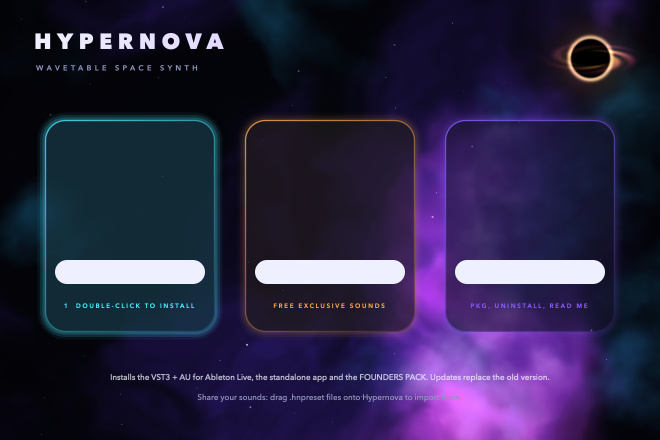
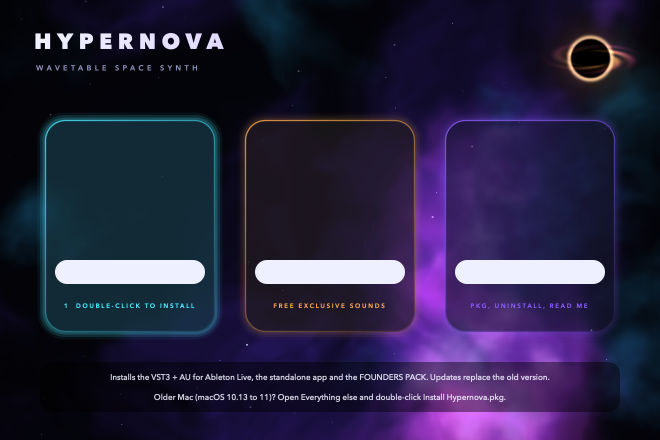
Hypernova 0.4.1: support macOS 10.13+ and faster plug-in open
- CMAKE_OSX_DEPLOYMENT_TARGET was set after project(), so builds silently targeted the
  SDK's macOS (26) and older Macs refused to load the plug-in. Now 10.13 (arm64: 11.0).
- Installer app targets macOS 12 (WindowGroup, pre-13 APIs); older systems use the pkg,
  which now allows 10.13. DMG art and READ ME explain the fallback.
- Wavetable build reuses one FFT plan per mip level: 880 ms to 125 ms, identical data.

Changed region(s): [[0.2424, 0.7977, 0.9394, 0.9455]]

diff --git a/installer/app/main.swift b/installer/app/main.swift
@@ -66,7 +66,7 @@ struct Part: Identifiable {
         "Library/Audio/Plug-Ins/VST3/Hypernova.vst3", "Library/Audio/Plug-Ins/Components/Hypernova.component",
         "Library/Audio/Plug-Ins/VST3/Arrow Bass.vst3", "Library/Audio/Plug-Ins/Components/Arrow Bass.component",
     ]
-    nonisolated static var soundsFolder: URL { FileManager.default.homeDirectoryForCurrentUser.appending(path: "Library/Application Support/Arrow/Hypernova") }
+    nonisolated static var soundsFolder: URL { FileManager.default.homeDirectoryForCurrentUser.appendingPathComponent("Library/Application Support/Arrow/Hypernova") }
 
     var installedVersion: String? {
         for path in Self.systemItems.prefix(3) {
@@ -77,7 +77,7 @@ struct Part: Identifiable {
 
     var somethingInstalled: Bool {
         let fm = FileManager.default, home = fm.homeDirectoryForCurrentUser
-        return Self.systemItems.contains { fm.fileExists(atPath: $0) } || Self.userItems.contains { fm.fileExists(atPath: home.appending(path: $0).path) }
+        return Self.systemItems.contains { fm.fileExists(atPath: $0) } || Self.userItems.contains { fm.fileExists(atPath: home.appendingPathComponent($0).path) }
     }
 
     var hasArrowBass: Bool {
@@ -144,7 +144,7 @@ struct Part: Identifiable {
         guard let pkg = Bundle.main.url(forResource: "Hypernova", withExtension: "pkg") else {
             return .failure(.init(message: "The installer is missing its package. Download the DMG again.", cancelled: false))
         }
-        let xml = FileManager.default.temporaryDirectory.appending(path: "hypernova-choices.plist")
+        let xml = FileManager.default.temporaryDirectory.appendingPathComponent("hypernova-choices.plist")
         let entries: [[String: Any]] = choices.map { ["choiceIdentifier": $0.0, "choiceAttribute": "selected", "attributeSetting": $0.1 ? 1 : 0] }
         do {
             let data = try PropertyListSerialization.data(fromPropertyList: entries, format: .xml, options: 0)
@@ -160,7 +160,7 @@ struct Part: Identifiable {
     // Per-user copies (old dev builds, Arrow Bass) would show up twice next to the system-wide install.
     private func removeUserCopies() {
         let fm = FileManager.default, home = fm.homeDirectoryForCurrentUser
-        for rel in Self.userItems { try? fm.removeItem(at: home.appending(path: rel)) }
+        for rel in Self.userItems { try? fm.removeItem(at: home.appendingPathComponent(rel)) }
     }
 
     // MARK: Uninstall
@@ -192,11 +192,11 @@ struct Part: Identifiable {
     private func cycleStatus(_ lines: [String], while phase: Phase) {
         Task { @MainActor in
             var i = 0
-            try? await Task.sleep(for: .seconds(2.5))
+            try? await Task.sleep(nanoseconds: 2_500_000_000)
             while self.phase == phase {
                 self.status = lines[i % lines.count]
                 i += 1
-                try? await Task.sleep(for: .seconds(1.4))
+                try? await Task.sleep(nanoseconds: 1_400_000_000)
             }
         }
     }
@@ -215,6 +215,7 @@ struct Part: Identifiable {
     init() {
         let args = CommandLine.arguments
         guard let i = args.firstIndex(of: "--snapshot"), i + 1 < args.count else { return }
+        guard #available(macOS 13.0, *) else { exit(1) } // snapshots use ImageRenderer; the installer itself runs on macOS 12
         let dir = URL(fileURLWithPath: args[i + 1])
         let screens: [(String, Phase)] = [("welcome", .welcome), ("working", .working), ("done", .done), ("failed", .failed("Sample error")),
                                           ("uninstall", .uninstallAsk), ("uninstalled", .uninstalled)]
@@ -227,14 +228,16 @@ struct Part: Identifiable {
             renderer.scale = 2
             if let img = renderer.nsImage, let tiff = img.tiffRepresentation, let rep = NSBitmapImageRep(data: tiff),
                let png = rep.representation(using: .png, properties: [:]) {
-                try? png.write(to: dir.appending(path: "installer-\(name).png"))
+                try? png.write(to: dir.appendingPathComponent("installer-\(name).png"))
             }
         }
         exit(0)
     }
 
     var body: some Scene {
-        Window(installer.uninstallMode ? "Uninstall Hypernova" : "Install Hypernova", id: "main") {
+        // WindowGroup rather than Window (macOS 13+) so the installer opens on macOS 12 too; File > New is removed
+        // and the delegate makes the window fixed-size.
+        WindowGroup(installer.uninstallMode ? "Uninstall Hypernova" : "Install Hypernova") {
             InstallerView()
                 .environmentObject(installer)
                 .frame(width: 720, height: 480)
@@ -242,7 +245,7 @@ struct Part: Identifiable {
                 .preferredColorScheme(.dark)
         }
         .windowStyle(.hiddenTitleBar)
-        .windowResizability(.contentSize)
+        .commands { CommandGroup(replacing: .newItem) {} }
     }
 }
 
@@ -250,6 +253,12 @@ final class AppDelegate: NSObject, NSApplicationDelegate {
     func applicationShouldTerminateAfterLastWindowClosed(_ sender: NSApplication) -> Bool { true }
     func applicationDidFinishLaunching(_ notification: Notification) {
         NSApp.activate(ignoringOtherApps: true)
-        NSApp.windows.first?.isMovableByWindowBackground = true
+        DispatchQueue.main.async {
+            for w in NSApp.windows {
+                w.isMovableByWindowBackground = true
+                w.styleMask.remove(.resizable)
+                w.standardWindowButton(.zoomButton)?.isEnabled = false
+            }
+        }
     }
 }

diff --git a/Source/DSP/Wavetables.h b/Source/DSP/Wavetables.h
@@ -240,11 +240,27 @@ private:
         };
         blurbs[TAir] = "dense breathy partials, dark to shimmering";
 
+        // One FFT plan (and its scale) per mip level, shared by every frame of every table: making plans per
+        // frame was most of the plug-in's open time, which matters on older Intel Macs.
+        Plans plans;
+        for (int l = 0; l < wtLevels; ++l)
+        {
+            const int size = wtLevelSize (l);
+            plans.inv.push_back (std::make_unique<juce::dsp::FFT> ((int) std::round (std::log2 ((double) size))));
+            plans.scale.push_back (inverseScale (*plans.inv.back(), size));
+        }
         for (int i = 0; i < NumTables; ++i)
-            tables.push_back (build (n[i], blurbs[(size_t) i], gens[(size_t) i]));
+            tables.push_back (build (n[i], blurbs[(size_t) i], gens[(size_t) i], plans));
     }
 
-    static Wavetable build (const juce::String& name, const juce::String& blurb, const Gen& gen)
+    struct Plans
+    {
+        juce::dsp::FFT fwd { 11 }; // 2048
+        std::vector<std::unique_ptr<juce::dsp::FFT>> inv;
+        std::vector<float> scale;
+    };
+
+    static Wavetable build (const juce::String& name, const juce::String& blurb, const Gen& gen, Plans& plans)
     {
         Wavetable wt;
         wt.name = name;
@@ -259,19 +275,17 @@ private:
         wt.data.assign (wt.frameStride * wtFrames, 0.0f);
 
         using C = std::complex<float>;
-        const int baseOrder = 11; // 2048
-        juce::dsp::FFT fwd (baseOrder);
-        std::vector<C> in ((size_t) wtBaseSize), spec ((size_t) wtBaseSize);
+        std::vector<C> in ((size_t) wtBaseSize), spec ((size_t) wtBaseSize), s ((size_t) wtBaseSize), out ((size_t) wtBaseSize);
+        std::vector<C> harm ((size_t) wtMaxHarmonics + 1);
 
         for (int f = 0; f < wtFrames; ++f)
         {
             const double t = (double) f / (wtFrames - 1);
             for (int i = 0; i < wtBaseSize; ++i)
                 in[(size_t) i] = C ((float) gen (t, (double) i / wtBaseSize), 0.0f);
-            fwd.perform (in.data(), spec.data(), false);
+            plans.fwd.perform (in.data(), spec.data(), false);
 
             // Harmonic k as complex amplitude: x(n) = Re(sum c_k e^{i 2pi k n / N}) with c_k = 2 X_k / N.
-            std::vector<C> harm ((size_t) wtMaxHarmonics + 1);
             for (int k = 1; k <= wtMaxHarmonics; ++k)
                 harm[(size_t) k] = spec[(size_t) k] * (2.0f / (float) wtBaseSize);
 
@@ -281,14 +295,12 @@ private:
                 const int size = wtLevelSize (l), maxH = wtLevelHarmonics (l);
                 float* dst = wt.data.data() + (size_t) f * wt.frameStride + wt.levelOffset[(size_t) l];
                 // Direct resynthesis via inverse FFT at this level's size.
-                const int order = (int) std::round (std::log2 ((double) size));
-                juce::dsp::FFT inv (order);
-                std::vector<C> s ((size_t) size), out ((size_t) size);
+                std::fill (s.begin(), s.begin() + size, C());
                 for (int k = 1; k <= maxH && k < size / 2; ++k)
                     s[(size_t) k] = harm[(size_t) k];
-                inv.perform (s.data(), out.data(), true);
-                // JUCE's inverse may or may not scale by 1/N; recover the scale from a known unit harmonic.
-                const float scale = inverseScale (inv, size);
+                plans.inv[(size_t) l]->perform (s.data(), out.data(), true);
+                // JUCE's inverse may or may not scale by 1/N; the scale was recovered from a known unit harmonic.
+                const float scale = plans.scale[(size_t) l];
                 for (int i = 0; i < size; ++i)
                     dst[i] = out[(size_t) i].real() * scale;
 

diff --git a/Tests/MakeInstallerArt.cpp b/Tests/MakeInstallerArt.cpp
@@ -148,12 +148,14 @@ namespace
             g.setFont (font (8.5f, true).withExtraKerningFactor (0.2f));
             g.drawText (p.caption, juce::Rectangle<float> (170, 16).withCentre ({ p.x, 306 }), juce::Justification::centred, false);
         }
-        g.setColour (Colours::text.withAlpha (0.75f));
+        g.setColour (juce::Colours::black.withAlpha (0.45f)); // keeps the notes readable over the bright nebula
+        g.fillRoundedRectangle (juce::Rectangle<float> (40, 362, 580, 50), 12.0f);
+        g.setColour (Colours::text.withAlpha (0.85f));
         g.setFont (font (11.0f));
         g.drawText ("Installs the VST3 + AU for Ableton Live, the standalone app and the FOUNDERS PACK. Updates replace the old version.",
                     juce::Rectangle<float> (24, 368, 612, 18), juce::Justification::centred, false);
-        g.setColour (Colours::textDim);
-        g.drawText ("Share your sounds: drag .hnpreset files onto Hypernova to import them.",
+        g.setColour (Colours::text.withAlpha (0.85f));
+        g.drawText ("Older Mac (macOS 10.13 to 11)? Open Everything else and double-click Install Hypernova.pkg.",
                     juce::Rectangle<float> (24, 388, 612, 18), juce::Justification::centred, false);
         return img;
     }

diff --git a/Tests/SmokeTest.cpp b/Tests/SmokeTest.cpp
@@ -186,6 +186,21 @@ int main (int argc, char** argv)
         return 0;
     }
 
+    // SmokeTest --opentime: how long building the wavetables and one processor takes (plug-in open time).
+    if (argc == 2 && juce::String (argv[1]) == "--opentime")
+    {
+        const auto t0 = juce::Time::getMillisecondCounterHiRes();
+        ab::WavetableBank::get();
+        const auto t1 = juce::Time::getMillisecondCounterHiRes();
+        { HypernovaAudioProcessor p; }
+        const auto t2 = juce::Time::getMillisecondCounterHiRes();
+        double sum = 0;
+        for (int i = 0; i < ab::NumTables; ++i)
+            for (auto v : ab::WavetableBank::get().table (i).data) sum += std::abs ((double) v);
+        std::printf ("wavetables %.0f ms, processor %.0f ms, checksum %.6f\n", t1 - t0, t2 - t1, sum);
+        return 0;
+    }
+
     // SmokeTest --lowend: for every bass-category preset, plays C2 for 0.8 s and prints how much of the energy
     // sits below 110 Hz (dB relative to the full signal). Used to find basses that are light on sub.
     if (argc == 2 && juce::String (argv[1]) == "--lowend")

diff --git a/packaging/release-notes.md b/packaging/release-notes.md
@@ -1,10 +1,8 @@
-Download **Hypernova-0.4.0.dmg**, open it and double-click **Install Hypernova**. It installs over any older version and keeps your saved sounds. Signed and notarized by Apple. Apple Silicon + Intel.
+Download **Hypernova-0.4.1.dmg**, open it and double-click **Install Hypernova**. It installs over any older version and keeps your saved sounds. Signed and notarized by Apple. Apple Silicon + Intel.
 
-## New in 0.4.0
-- **Updates inside the plug-in:** Hypernova now checks for new versions (at most once a day) and shows a banner. One click downloads the new installer and opens it. Turn it off, or check by hand, in the gear menu.
-- **40 new Experimental sounds**, built from what producers keep asking for: evolving drones (Glacier Engine, Rust Bloom), glitch and stutter loops from one held note (Stutter Loom, Chopped Signal), clangy inharmonic FM metal (Foundry Bell, Singing Bowl), talking formant basses (Yoi Machine, Robot Gossip), neuro movement (Arguing Machines), cinematic hits and risers (Braaam Colossus, Event Horizon Riser, Black Hole Impact), broken lo-fi keys (Dying Cassette, Tape Stop Keys), alien percussion (Latex Snap, Insect Kit, Laser Hat) and more.
-- **Real 808s:** every 808 is rebuilt as a proper 808: a clean sine body with a fast pitch knock that rings out and decays naturally instead of holding like an organ. Grit, drive and slides are still on the macros. Two new ones: TR Boom and Long Tail 808.
-- **Heavier basses:** reeses, growls and plucked basses that were light on low end now carry a clean sine sub and more weight under 120 Hz.
-- **No more clicks between notes:** stolen and retriggered voices fade out smoothly, and the output limiter looks ahead so loud attacks no longer crack.
-- **Smoother sound browser:** it opens on the sound you're playing, the category list scrolls, rows highlight on hover, arrow keys work from the search box, stars no longer load the sound, and a click outside closes it. The menus got a new look too.
-- Some sounds renamed (Deep Groove Sub, Rolling Groove Bass, Wooden Marimba Arp) and the World category is now Folk Instruments.
+## New in 0.4.1: runs on older Macs
+- **Works on macOS 10.13 High Sierra and later** (Apple Silicon: macOS 11 and later). 0.4.0 was accidentally built for the newest macOS only, so older Macs showed "This Audio Unit plug-in could not be opened" in Ableton.
+- **The installer app now runs on macOS 12 Monterey.** On macOS 10.13 to 11, open **Everything else** and double-click **Install Hypernova.pkg**.
+- **Opens about 7x faster:** building the wavetables takes around a tenth of a second instead of nearly one second, which matters most on older Intel Macs. The sound is bit-for-bit identical.
+
+Everything from 0.4.0 is included: in-app updates, 40 Experimental sounds, rebuilt 808s, heavier basses, no clicks between notes and a smoother sound browser.
